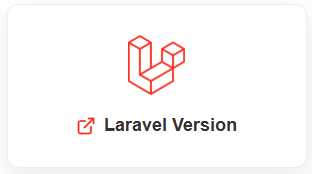
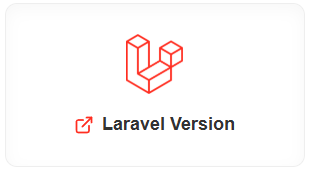
laravel test

Changed region(s): [[0.4038, 0.2011, 0.6058, 0.546], [0.2308, 0.6609, 0.7788, 0.7759]]

diff --git a/cards/style.css b/cards/style.css
@@ -143,8 +143,7 @@ body {
     width: 300px;
     padding: 30px 20px;
     border-radius: 12px;
-    /* Inner shadow added using inset */
-    box-shadow: inset 0 5px 15px rgba(69, 68, 68, 0.1);
+    box-shadow:  inset 0 5px 15px rgba(0, 0, 0, 0.03);
     transition: transform 0.3s ease;
     border: 1px solid #eee;
     display: flex;
